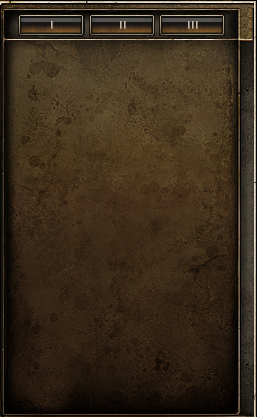
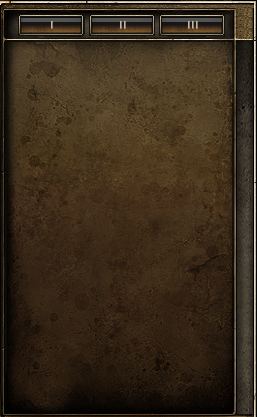
[Major Update] :: Revised Graphic elements and configuration according to Firefox Scrollbar

diff --git a/LESS/Index/index.global_screen.less b/LESS/Index/index.global_screen.less
@@ -162,9 +162,10 @@
 /** --- Variables Gear View --- **
 /** --------------------------- **/
 @gear_build_height: 417px;
-@gear_build_items_width: 413px;
+@gear_build_items_width: 417px;
 @gear_build_stats_width: 257px;
 
+@gear_build_items_search_left: 119px;
 @gear_build_items_search_width: 179px;
 @gear_build_items_search_height: 258px;
 
@@ -183,6 +184,11 @@
 
 @gear_inventory_offset_size: 32px;
 @gear_slot_offset_size: 35px;
+
+
+@slots_left_left_offset: 33px;
+@slots_center_left_offset: 175px;
+@slots_right_left_offset: 314px;
 
 
 
@@ -416,7 +422,7 @@ section {
 		
 		&_build {
 			position: relative;
-			height: 417px;
+			height: @gear_build_height;
 			width: 100%;
 				
 			&_items {
@@ -465,7 +471,7 @@ section {
 					&.slot {
 						&_head{
 							.slot(2, 2);
-							left: 173px;
+							left: @slots_center_left_offset;
 							top: 14px;
 							
 							&:not([class*="quality"]){
@@ -475,7 +481,7 @@ section {
 						
 						&_neck{
 							.slot(1, 1);
-							left: 258px;
+							left: @slots_center_left_offset + 85px;
 							top: 23px;
 							
 							&:not([class*="quality"]){
@@ -485,7 +491,7 @@ section {
 						
 						&_lring{
 							.slot(1, 1);
-							left: 120px;
+							left: @slots_center_left_offset - 53px;
 							top: 69px;
 							
 							&:not([class*="quality"]){
@@ -495,7 +501,7 @@ section {
 						
 						&_rring{
 							.slot(1, 1);
-							left: 258px;
+							left: @slots_center_left_offset + 85px;
 							top: 69px;
 							
 							&:not([class*="quality"]){
@@ -505,7 +511,7 @@ section {
 						
 						&_main_1{
 							.slot(2, 4, 4);
-							left: 32px;
+							left: @slots_left_left_offset;
 							top: 19px;
 							
 							&:not([class*="quality"]){
@@ -515,7 +521,7 @@ section {
 						
 						&_off_1{
 							.slot(2, 4, 4);
-							left: 311px;
+							left: @slots_right_left_offset;
 							top: 19px;
 							
 							&:not([class*="quality"]){
@@ -525,7 +531,7 @@ section {
 						
 						&_main_2{
 							.slot(2, 4, 4);
-							left: 32px;
+							left: @slots_left_left_offset;
 							top: 19px;
 							
 							&:not([class*="quality"]){
@@ -535,7 +541,7 @@ section {
 						
 						&_off_2{
 							.slot(2, 4, 4);
-							left: 311px;
+							left: @slots_right_left_offset;
 							top: 19px;
 							
 							&:not([class*="quality"]){
@@ -545,7 +551,7 @@ section {
 						
 						&_chest{
 							.slot(2, 3, 1.5);
-							left: 32px;
+							left: @slots_left_left_offset;
 							top: 167px;
 							
 							&:not([class*="quality"]){
@@ -555,7 +561,7 @@ section {
 						
 						&_shoulders{
 							.slot(2, 2);
-							left: 311px;
+							left: @slots_right_left_offset;
 							top: 160px;
 							
 							&:not([class*="quality"]){
@@ -565,7 +571,7 @@ section {
 						
 						&_hands{
 							.slot(2, 2);
-							left: 311px;
+							left: @slots_right_left_offset;
 							top: 238px;
 							
 							&:not([class*="quality"]){
@@ -575,7 +581,7 @@ section {
 						
 						&_legs{
 							.slot(2, 3, 1.5);
-							left: 32px;
+							left: @slots_left_left_offset;
 							top: 284px;
 							
 							&:not([class*="quality"]){
@@ -585,7 +591,7 @@ section {
 						
 						&_feet{
 							.slot(2, 2);
-							left: 311px;
+							left: @slots_right_left_offset;
 							top: 316px;
 							
 							&:not([class*="quality"]){
@@ -595,7 +601,7 @@ section {
 						
 						&_relic{
 							.slot((1 * (38 / 35)), (1 * (38 / 35)));
-							left: 119px;
+							left: @slots_center_left_offset - 54px;;
 							top: 373px;
 							
 							&:not([class*="quality"]){
@@ -605,7 +611,7 @@ section {
 						
 						&_waist{
 							.slot(2, (1 * (38 / 35)));
-							left: 172px;
+							left: @slots_center_left_offset - 1px;
 							top: 373px;
 							
 							&:not([class*="quality"]){
@@ -615,7 +621,7 @@ section {
 						
 						&_medal{
 							.slot((1 * (38 / 35)), (1 * (38 / 35)));
-							left: 257px;
+							left: @slots_center_left_offset + 84px;
 							top: 373px;
 							
 							&:not([class*="quality"]){
@@ -625,7 +631,7 @@ section {
 						
 						&_switcher{
 							.slot(1, 1);
-							left: 120px;
+							left: @slots_center_left_offset - 53px;
 							top: 23px;
 							
 							&:not([class*="quality"]){
@@ -702,7 +708,7 @@ section {
 				
 				&_search_panel {
 					position: relative;
-					left: 117px;
+					left: @gear_build_items_search_left;
 					top: 111px;
 					width: @gear_build_items_search_width;
 					height: @gear_build_items_search_height;
@@ -1072,7 +1078,7 @@ section {
 				//background-position: /*right 0 top 0,*/ 0 0;
 				background-position: 0 0;
 				//background-repeat: /*no-repeat, */repeat;
-				background-repeat: repeat;
+				background-repeat: repeat-y;
 				
 				//background-image: url('@{images}/Backgrounds/scrollbar.png'), url('@{images}/Backgrounds/grid.png');
 				
@@ -1423,9 +1429,18 @@ section {
 /** ---																																					--- **
 /** -------------------------------------------------------------------------------------------------------------------- **
 /** -------------------------------------------------------------------------------------------------------------------- **/
+@scroll_img_width: 64px;
+@scroll_img_height: 64px;
+@scroll_button_width: 16px;
+@scroll_button_height: 16px;
+
+// init = 16 - désirée = 17 :: 17/16 = 1.0625
+@scroll_coef: 1.0625;
+
+
 .gd_scrollbar {
 	&::-webkit-scrollbar {
-		width: 14px;
+		width: @scroll_coef * 16px;
 		
 		&-track {
 			
@@ -1437,8 +1452,8 @@ section {
 		&-button {
 			background-image: url('@{images}/Backgrounds/scroll_buttons.png');
 			//background-position: -1px 0;
-			background-size: (0.875 * 64px) (0.875 * 64px);// photo 64x48 pour unit = 16px, ////
-			height: 14px;
+			background-size: (@scroll_coef * 64px) (@scroll_coef * 64px);// photo 64x64 pour 4 unité de 16px on veut 17 px
+			height: 16px * @scroll_coef;
 			cursor: pointer;
 			
 			&:horizontal {
@@ -1451,22 +1466,22 @@ section {
 					background-position: 0 0;
 					
 					&:hover {
-						background-position: 0 (0.875 * -16px);
+						background-position: 0 (@scroll_coef * -16px);
 					}
 					
 					&:active {
-						background-position: 0 (0.875 * -32px);
+						background-position: 0 (@scroll_coef * -32px);
 					}
 				}
 				&:decrement {
-					background-position: (0.875 * -16px) 0;
+					background-position: (@scroll_coef * -16px) 0;
 					
 					&:hover {
-						background-position: (0.875 * -16px) (0.875 * -16px);
+						background-position: (@scroll_coef * -16px) (@scroll_coef * -16px);
 					}
 					
 					&:active {
-						background-position: (0.875 * -16px) (0.875 * -32px);
+						background-position: (@scroll_coef * -16px) (@scroll_coef * -32px);
 					}
 				}
 			}
@@ -1474,8 +1489,8 @@ section {
 		
 		&-thumb {
 			background-image: url('@{images}/Backgrounds/thumb-slider-vertical.png'),  url('@{images}/Backgrounds/thumb-slider-vertical.png'), url('@{images}/Backgrounds/thumb-slider-vertical.png');
-			background-size: (0.875 * 48px) (0.875 * 16px);////
-			background-position: (0.875 * -16px) 0, left 0 bottom 0, (0.875 * -32px) 0;
+			background-size: (@scroll_coef * 48px) (@scroll_coef * 16px);////
+			background-position: (@scroll_coef * -16px) 0, left 0 bottom 0, (@scroll_coef * -32px) 0;
 			background-repeat: no-repeat, no-repeat, repeat;
 		}
 		
